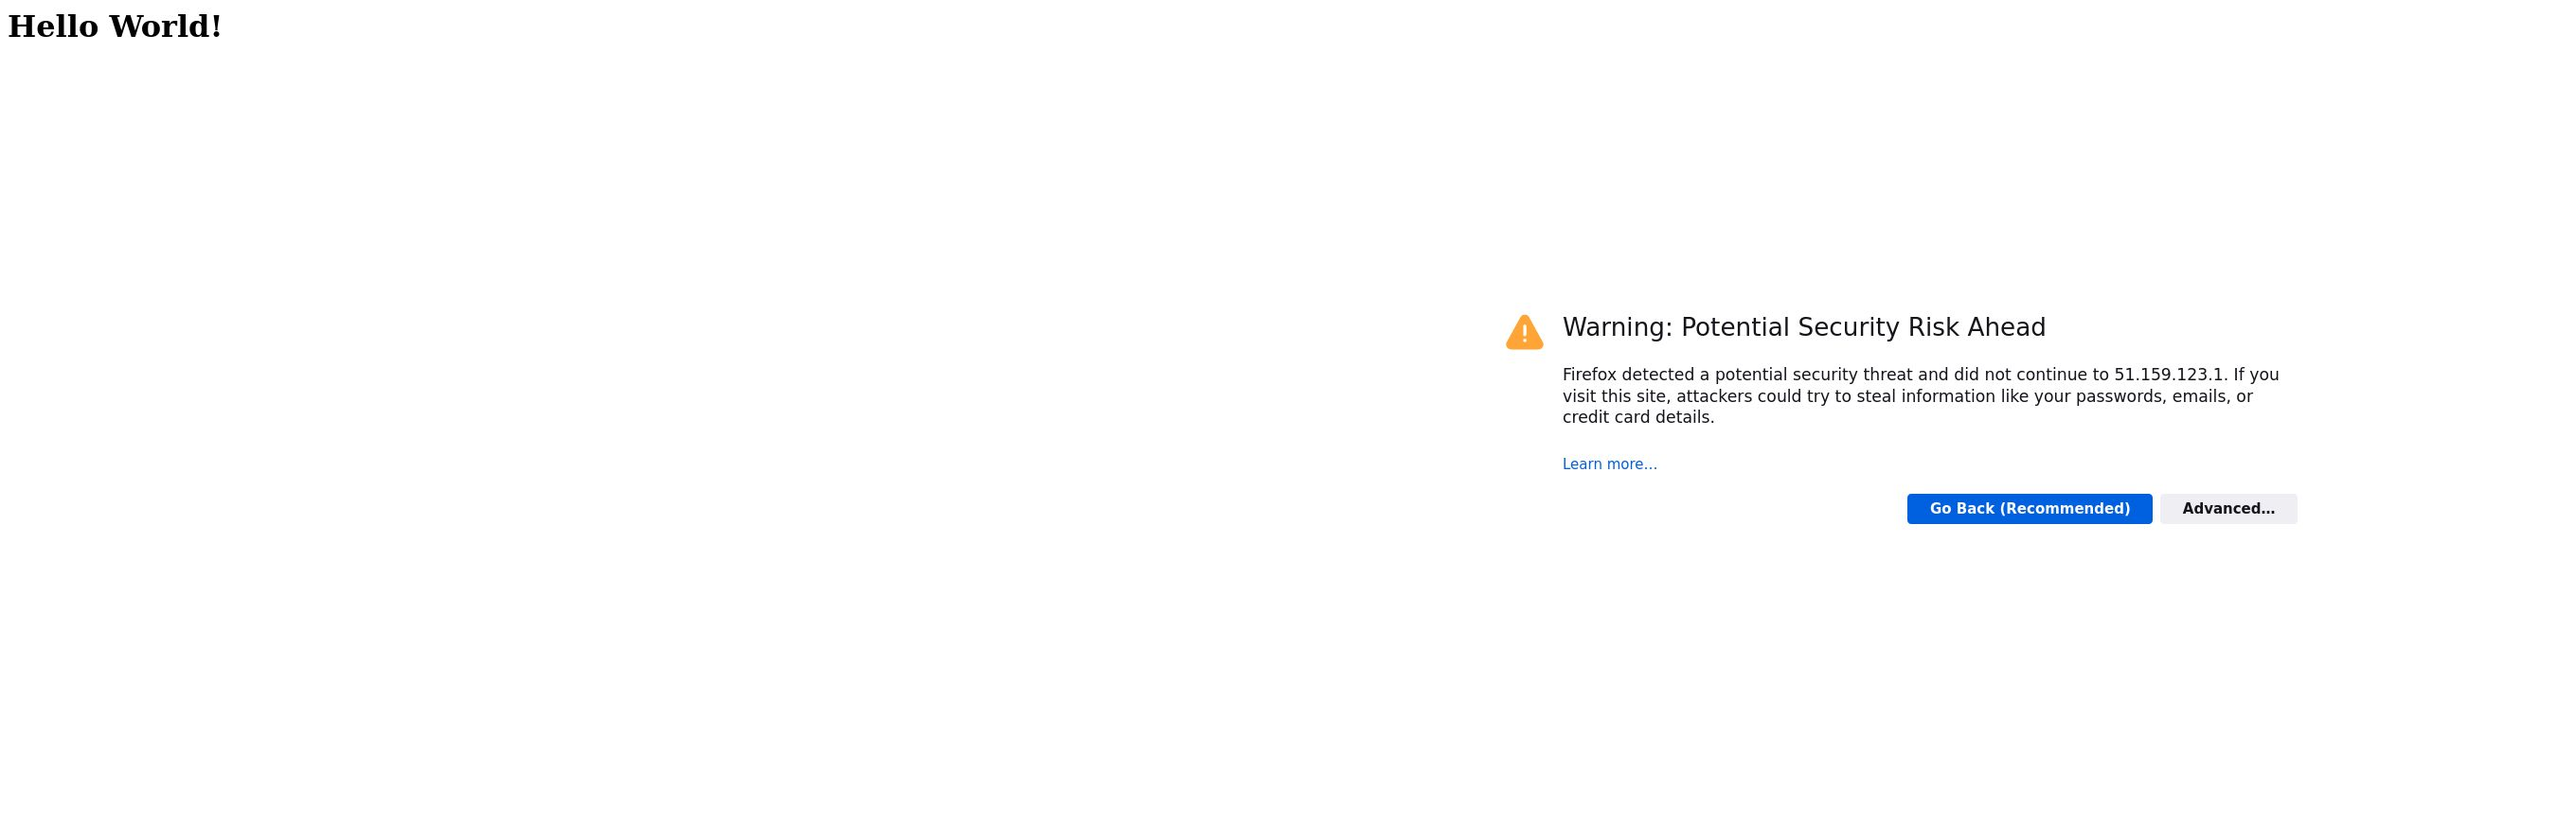
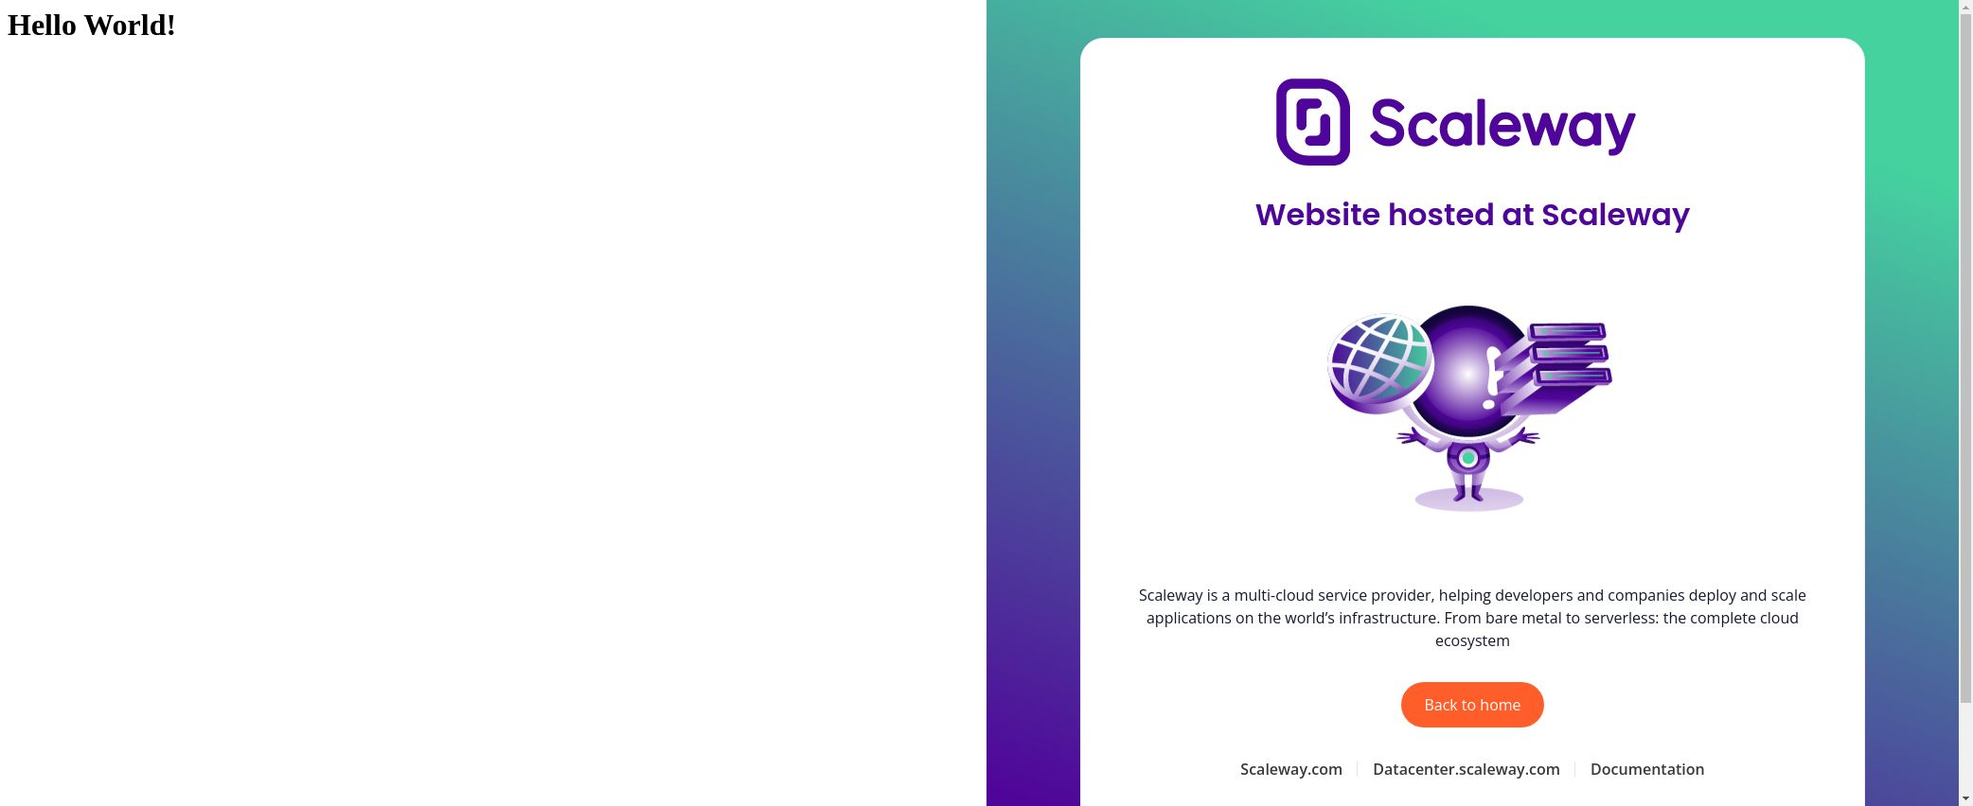
🎨 Solving the SSL Certs issue
Changed the webdriver to Chrome and added the arg for certs errors

diff --git a/seletesting/src/main.go b/seletesting/src/main.go
@@ -3,7 +3,7 @@ package main
 import (
 	"fmt"
 	"github.com/tebeka/selenium"
-	fox "github.com/tebeka/selenium/firefox"
+	"github.com/tebeka/selenium/chrome"
 )
 
 func main() {
@@ -13,12 +13,11 @@ func main() {
 	fmt.Println(">----------------------")
 
 	// Connect to server
-
-	caps := selenium.Capabilities{"browserName": "firefox"}
-	firefoxCaps := fox.Capabilities{
+	caps := selenium.Capabilities{"browserName": "chrome"}
+	chromeCaps := chrome.Capabilities{
 		Args: []string{"--ignore-certificate-errors"},
 	}
-	caps.AddFirefox(firefoxCaps)
+	caps.AddChrome(chromeCaps)
 
 	driver, err := selenium.NewRemote(caps, "http://localhost:4444/wd/hub")
 	if err != nil {
@@ -28,7 +27,7 @@ func main() {
 	defer driver.Quit()
 
 	// Get on first website
-	err = driver.Get("https://mfarez.leluke.com")
+	err = driver.Get("http://mfarez.leluke.com")
 	if err != nil {
 		fmt.Println(err)
 	}
@@ -38,7 +37,7 @@ func main() {
 	}
 
 	// Get on second website
-	err = driver.Get("https://51.159.123.1/~checktest")
+	err = driver.Get("http://51.159.123.1/~mfarez")
 	if err != nil {
 		fmt.Println(err)
 	}
